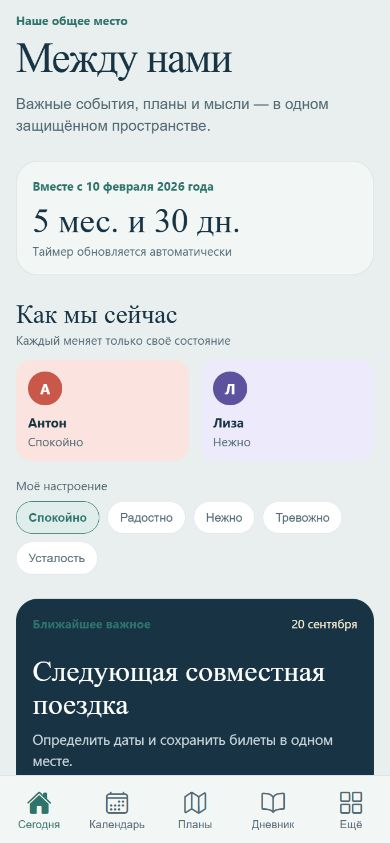
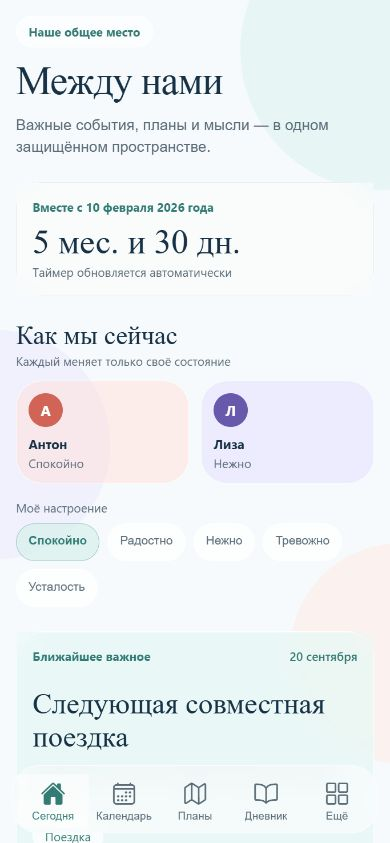
feat: redesign mobile UI with light glass materials

diff --git a/src/app/(tabs)/more.tsx b/src/app/(tabs)/more.tsx
@@ -3,7 +3,7 @@ import { Pressable, StyleSheet, Text, View } from "react-native";
 import { PageHeader } from "@/components/PageHeader";
 import { Screen } from "@/components/Screen";
 import { Surface } from "@/components/Surface";
-import { colors, radius, spacing } from "@/theme/tokens";
+import { colors, controlShadow, radius, spacing } from "@/theme/tokens";
 
 const sections = [
   { icon: "time-outline", title: "Наша история", subtitle: "Памятные события" },
@@ -17,15 +17,23 @@ const sections = [
 export default function MoreScreen() {
   return (
     <Screen header={<PageHeader kicker="Все разделы" title="Ещё" subtitle="Дополнительные разделы общей платформы и будущие возможности." />}>
-      <View style={styles.grid}>
-        {sections.map((section) => (
-          <Pressable key={section.title} accessibilityRole="button" style={({ pressed }) => [styles.item, pressed && styles.pressed]}>
-            <Ionicons color={colors.sea} name={section.icon} size={22} />
-            <Text style={styles.title}>{section.title}</Text>
-            <Text style={styles.subtitle}>{section.subtitle}</Text>
-          </Pressable>
+      <Surface style={styles.group}>
+        {sections.map((section, index) => (
+          <View key={section.title}>
+            <Pressable accessibilityRole="button" style={({ pressed }) => [styles.item, pressed && styles.pressed]}>
+              <View style={[styles.iconWell, index % 3 === 1 && styles.violetWell, index % 3 === 2 && styles.coralWell]}>
+                <Ionicons color={index % 3 === 1 ? colors.violet : index % 3 === 2 ? colors.coral : colors.sea} name={section.icon} size={21} />
+              </View>
+              <View style={styles.copy}>
+                <Text style={styles.title}>{section.title}</Text>
+                <Text style={styles.subtitle}>{section.subtitle}</Text>
+              </View>
+              <Ionicons color={colors.muted} name="chevron-forward" size={18} />
+            </Pressable>
+            {index < sections.length - 1 ? <View style={styles.separator} /> : null}
+          </View>
         ))}
-      </View>
+      </Surface>
       <Surface style={styles.foundation}>
         <Text style={styles.foundationTitle}>Мобильная основа готова</Text>
         <Text style={styles.foundationText}>Следующий этап — авторизация пары, синхронизация с новым API и полноценные формы добавления данных.</Text>
@@ -35,11 +43,16 @@ export default function MoreScreen() {
 }
 
 const styles = StyleSheet.create({
-  grid: { flexDirection: "row", flexWrap: "wrap", gap: spacing.md },
-  item: { backgroundColor: colors.surface, borderColor: colors.line, borderRadius: radius.lg, borderWidth: StyleSheet.hairlineWidth, minHeight: 132, padding: spacing.lg, width: "48%" },
+  group: { backgroundColor: "rgba(255,255,255,0.68)", paddingHorizontal: spacing.md, paddingVertical: spacing.xs },
+  item: { alignItems: "center", flexDirection: "row", minHeight: 72, paddingHorizontal: spacing.xs, paddingVertical: spacing.sm },
   pressed: { opacity: 0.72, transform: [{ scale: 0.985 }] },
-  title: { color: colors.ink, fontSize: 14, fontWeight: "700", marginTop: spacing.md },
-  subtitle: { color: colors.muted, fontSize: 12, lineHeight: 17, marginTop: spacing.xs },
+  iconWell: { alignItems: "center", backgroundColor: colors.seaSoft, borderColor: colors.glassLine, borderRadius: radius.md, borderWidth: StyleSheet.hairlineWidth, height: 44, justifyContent: "center", width: 44, ...controlShadow },
+  violetWell: { backgroundColor: colors.violetSoft },
+  coralWell: { backgroundColor: colors.coralSoft },
+  copy: { flex: 1, marginHorizontal: spacing.md },
+  title: { color: colors.ink, fontSize: 15, fontWeight: "700" },
+  subtitle: { color: colors.muted, fontSize: 12, lineHeight: 17, marginTop: 2 },
+  separator: { backgroundColor: colors.line, height: StyleSheet.hairlineWidth, marginLeft: 60 },
   foundation: { backgroundColor: colors.seaSoft, marginTop: spacing.xl },
   foundationTitle: { color: colors.ink, fontSize: 16, fontWeight: "700" },
   foundationText: { color: colors.muted, fontSize: 13, lineHeight: 20, marginTop: spacing.sm },

diff --git a/src/app/(tabs)/index.tsx b/src/app/(tabs)/index.tsx
@@ -53,18 +53,18 @@ export default function HomeScreen() {
 }
 
 const styles = StyleSheet.create({
-  timer: { marginBottom: spacing.xl },
+  timer: { backgroundColor: "rgba(255,255,255,0.7)", marginBottom: spacing.xl },
   timerLabel: { color: colors.sea, fontSize: 12, fontWeight: "700" },
   timerValue: { color: colors.ink, fontFamily: typography.display, fontSize: 34, marginTop: spacing.sm },
   timerCaption: { color: colors.muted, fontSize: 12, marginTop: 2 },
-  nextPlan: { backgroundColor: colors.ink, marginBottom: spacing.lg },
+  nextPlan: { backgroundColor: "rgba(222,243,240,0.62)", borderColor: "rgba(255,255,255,0.92)", marginBottom: spacing.lg },
   sectionRow: { alignItems: "center", flexDirection: "row", justifyContent: "space-between" },
   sectionLabel: { color: colors.sea, fontSize: 12, fontWeight: "700" },
-  date: { color: colors.sunSoft, fontSize: 12 },
-  cardTitle: { color: colors.white, fontFamily: typography.display, fontSize: 29, lineHeight: 33, marginTop: spacing.xl },
+  date: { color: colors.sea, fontSize: 12, fontWeight: "600" },
+  cardTitle: { color: colors.ink, fontFamily: typography.display, fontSize: 29, lineHeight: 33, marginTop: spacing.xl },
   cardBody: { color: colors.muted, fontSize: 14, lineHeight: 21, marginBottom: spacing.lg, marginTop: spacing.sm },
-  nextPlanBody: { color: "#CBD7DA", fontSize: 14, lineHeight: 21, marginBottom: spacing.lg, marginTop: spacing.sm },
-  tag: { alignSelf: "flex-start", backgroundColor: colors.sunSoft, borderRadius: radius.pill, color: colors.sun, fontSize: 12, overflow: "hidden", paddingHorizontal: spacing.md, paddingVertical: spacing.sm },
-  message: { marginBottom: spacing.lg },
+  nextPlanBody: { color: colors.muted, fontSize: 14, lineHeight: 21, marginBottom: spacing.lg, marginTop: spacing.sm },
+  tag: { alignSelf: "flex-start", backgroundColor: "rgba(255,255,255,0.72)", borderColor: colors.glassLine, borderRadius: radius.pill, borderWidth: StyleSheet.hairlineWidth, color: colors.sea, fontSize: 12, overflow: "hidden", paddingHorizontal: spacing.md, paddingVertical: spacing.sm },
+  message: { backgroundColor: "rgba(255,255,255,0.68)", marginBottom: spacing.lg },
   messageTitle: { color: colors.ink, fontFamily: typography.display, fontSize: 27, lineHeight: 31, marginTop: spacing.lg },
 });

diff --git a/src/components/MoodPanel.tsx b/src/components/MoodPanel.tsx
@@ -1,7 +1,7 @@
 import { Pressable, StyleSheet, Text, View } from "react-native";
 import { memberLabels, moodLabels } from "@/domain/labels";
 import type { MemberId, MemberMood, Mood } from "@/domain/models";
-import { colors, radius, spacing, typography } from "@/theme/tokens";
+import { colors, controlShadow, radius, spacing, typography } from "@/theme/tokens";
 
 interface MoodPanelProps {
   currentMemberId: MemberId;
@@ -48,7 +48,7 @@ const styles = StyleSheet.create({
   title: { color: colors.ink, fontFamily: typography.display, fontSize: 26 },
   caption: { color: colors.muted, fontSize: 12, marginTop: 2 },
   people: { flexDirection: "row", gap: spacing.md },
-  person: { backgroundColor: colors.coralSoft, borderRadius: radius.md, flex: 1, padding: spacing.md },
+  person: { backgroundColor: colors.coralSoft, borderColor: "rgba(255,255,255,0.82)", borderRadius: radius.lg, borderWidth: StyleSheet.hairlineWidth, flex: 1, padding: spacing.md, ...controlShadow },
   lisaPerson: { backgroundColor: colors.violetSoft },
   avatar: { alignItems: "center", backgroundColor: colors.coral, borderRadius: radius.pill, height: 34, justifyContent: "center", width: 34 },
   lisaAvatar: { backgroundColor: colors.violet },
@@ -57,8 +57,8 @@ const styles = StyleSheet.create({
   value: { color: colors.muted, fontSize: 12, marginTop: 2 },
   selectLabel: { color: colors.muted, fontSize: 12, marginBottom: spacing.sm, marginTop: spacing.lg },
   options: { flexDirection: "row", flexWrap: "wrap", gap: spacing.sm },
-  option: { backgroundColor: colors.surfaceStrong, borderColor: colors.line, borderRadius: radius.pill, borderWidth: StyleSheet.hairlineWidth, paddingHorizontal: spacing.md, paddingVertical: 9 },
-  activeOption: { backgroundColor: colors.seaSoft, borderColor: colors.sea },
+  option: { backgroundColor: "rgba(255,255,255,0.72)", borderColor: colors.glassLine, borderRadius: radius.pill, borderWidth: StyleSheet.hairlineWidth, minHeight: 38, paddingHorizontal: spacing.md, paddingVertical: 10, ...controlShadow },
+  activeOption: { backgroundColor: colors.seaSoft, borderColor: "rgba(51,123,116,0.34)" },
   optionText: { color: colors.muted, fontFamily: typography.body, fontSize: 12 },
   activeOptionText: { color: colors.sea, fontWeight: "700" },
 });

diff --git a/src/app/(tabs)/calendar.tsx b/src/app/(tabs)/calendar.tsx
@@ -6,7 +6,7 @@ import { PageHeader } from "@/components/PageHeader";
 import { Screen } from "@/components/Screen";
 import { Surface } from "@/components/Surface";
 import { useAppData } from "@/state/AppDataContext";
-import { colors, radius, spacing, typography } from "@/theme/tokens";
+import { colors, controlShadow, radius, spacing, typography } from "@/theme/tokens";
 
 const weekdays = ["Пн", "Вт", "Ср", "Чт", "Пт", "Сб", "Вс"];
 
@@ -65,15 +65,15 @@ export default function CalendarScreen() {
 }
 
 const styles = StyleSheet.create({
-  calendar: { padding: spacing.md },
+  calendar: { backgroundColor: "rgba(255,255,255,0.66)", padding: spacing.md },
   monthRow: { alignItems: "center", flexDirection: "row", justifyContent: "space-between", marginBottom: spacing.lg },
-  arrow: { alignItems: "center", backgroundColor: colors.surfaceStrong, borderRadius: radius.md, height: 42, justifyContent: "center", width: 42 },
+  arrow: { alignItems: "center", backgroundColor: "rgba(255,255,255,0.76)", borderColor: colors.glassLine, borderRadius: radius.md, borderWidth: StyleSheet.hairlineWidth, height: 44, justifyContent: "center", width: 44, ...controlShadow },
   month: { color: colors.ink, fontFamily: typography.display, fontSize: 24, textTransform: "capitalize" },
   weekRow: { flexDirection: "row" },
   weekday: { color: colors.muted, flex: 1, fontSize: 10, fontWeight: "600", paddingVertical: spacing.sm, textAlign: "center" },
   grid: { flexDirection: "row", flexWrap: "wrap" },
   day: { alignItems: "center", aspectRatio: 1, justifyContent: "center", padding: 2, width: "14.2857%" },
-  activeDay: { backgroundColor: colors.ink, borderRadius: radius.md },
+  activeDay: { backgroundColor: colors.sea, borderColor: "rgba(255,255,255,0.8)", borderRadius: radius.md, borderWidth: StyleSheet.hairlineWidth, ...controlShadow },
   dayText: { color: colors.ink, fontSize: 13 },
   outsideText: { color: "#AAB8BC" },
   activeDayText: { color: colors.white, fontWeight: "700" },

diff --git a/src/app/(tabs)/_layout.tsx b/src/app/(tabs)/_layout.tsx
@@ -1,7 +1,8 @@
 import { Ionicons } from "@expo/vector-icons";
+import { BlurView } from "expo-blur";
 import { Tabs } from "expo-router";
-import { Platform } from "react-native";
-import { colors, typography } from "@/theme/tokens";
+import { Platform, StyleSheet } from "react-native";
+import { colors, radius, shadow, typography } from "@/theme/tokens";
 
 const icons = {
   index: ["home-outline", "home"],
@@ -18,12 +19,25 @@ export default function TabsLayout() {
         headerShown: false,
         tabBarActiveTintColor: colors.sea,
         tabBarInactiveTintColor: colors.muted,
+        tabBarActiveBackgroundColor: "rgba(255,255,255,0.58)",
+        tabBarBackground: () => <BlurView blurMethod="dimezisBlurViewSdk31Plus" intensity={72} tint="systemUltraThinMaterialLight" style={StyleSheet.absoluteFill} />,
+        tabBarItemStyle: { borderRadius: radius.md, marginVertical: 5, outlineColor: "transparent", outlineWidth: 0 },
         tabBarLabelStyle: { fontFamily: typography.body, fontSize: 11, fontWeight: "500", marginTop: 2 },
         tabBarStyle: {
-          backgroundColor: colors.surface,
-          borderTopColor: colors.line,
-          height: Platform.OS === "ios" ? 86 : 68,
-          paddingTop: 8,
+          backgroundColor: "rgba(255,255,255,0.5)",
+          borderColor: colors.glassLine,
+          borderRadius: 27,
+          borderTopWidth: StyleSheet.hairlineWidth,
+          borderWidth: StyleSheet.hairlineWidth,
+          bottom: Platform.OS === "ios" ? 8 : 10,
+          height: Platform.OS === "ios" ? 78 : 68,
+          left: 12,
+          overflow: "hidden",
+          paddingHorizontal: 5,
+          paddingTop: 4,
+          position: "absolute",
+          right: 12,
+          ...shadow,
         },
         tabBarIcon: ({ color, focused, size }) => {
           const pair = icons[route.name as keyof typeof icons] ?? icons.more;

diff --git a/src/theme/tokens.ts b/src/theme/tokens.ts
@@ -1,20 +1,22 @@
 import { Platform } from "react-native";
 
 export const colors = {
-  background: "#E8EFEE",
-  surface: "#F2F6F5",
+  background: "#F7FAFC",
+  surface: "rgba(255, 255, 255, 0.62)",
   surfaceStrong: "#FFFFFF",
-  ink: "#173344",
-  muted: "#526974",
-  line: "rgba(81, 108, 115, 0.16)",
-  sea: "#2F746B",
-  seaSoft: "#DFEEEA",
-  coral: "#C9584A",
-  coralSoft: "#FBE4DF",
-  violet: "#5D529E",
-  violetSoft: "#ECEAFB",
-  sun: "#A87510",
-  sunSoft: "#FAEFD3",
+  surfaceSoft: "rgba(244, 249, 250, 0.72)",
+  ink: "#173246",
+  muted: "#5B6D79",
+  line: "rgba(92, 116, 128, 0.14)",
+  glassLine: "rgba(255, 255, 255, 0.92)",
+  sea: "#337B74",
+  seaSoft: "rgba(215, 240, 235, 0.68)",
+  coral: "#D16457",
+  coralSoft: "rgba(255, 225, 220, 0.58)",
+  violet: "#6859AC",
+  violetSoft: "rgba(231, 227, 255, 0.62)",
+  sun: "#9A7119",
+  sunSoft: "rgba(252, 239, 203, 0.72)",
   danger: "#BD564E",
   white: "#FFFFFF",
 } as const;
@@ -29,9 +31,9 @@ export const spacing = {
 } as const;
 
 export const radius = {
-  sm: 10,
-  md: 16,
-  lg: 22,
+  sm: 12,
+  md: 18,
+  lg: 26,
   pill: 999,
 } as const;
 
@@ -42,11 +44,22 @@ export const typography = {
 
 export const shadow = Platform.select({
   ios: {
-    shadowColor: "#263F49",
-    shadowOpacity: 0.1,
-    shadowRadius: 16,
-    shadowOffset: { width: 0, height: 7 },
+    shadowColor: "#6B8290",
+    shadowOpacity: 0.13,
+    shadowRadius: 22,
+    shadowOffset: { width: 0, height: 10 },
   },
-  android: { elevation: 3 },
+  android: { elevation: 2 },
+  default: {},
+});
+
+export const controlShadow = Platform.select({
+  ios: {
+    shadowColor: "#66808B",
+    shadowOpacity: 0.12,
+    shadowRadius: 10,
+    shadowOffset: { width: 0, height: 5 },
+  },
+  android: { elevation: 2 },
   default: {},
 });

diff --git a/src/components/AppButton.tsx b/src/components/AppButton.tsx
@@ -1,5 +1,5 @@
 import { Pressable, StyleSheet, Text, type PressableProps, type StyleProp, type ViewStyle } from "react-native";
-import { colors, radius, spacing, typography } from "@/theme/tokens";
+import { colors, controlShadow, radius, spacing, typography } from "@/theme/tokens";
 
 interface AppButtonProps extends Omit<PressableProps, "style"> {
   label: string;
@@ -20,11 +20,11 @@ export function AppButton({ label, variant = "primary", style, ...props }: AppBu
 }
 
 const styles = StyleSheet.create({
-  base: { alignItems: "center", borderRadius: radius.md, justifyContent: "center", minHeight: 48, paddingHorizontal: spacing.lg },
-  primary: { backgroundColor: colors.ink },
-  secondary: { backgroundColor: colors.surfaceStrong, borderColor: colors.line, borderWidth: StyleSheet.hairlineWidth },
+  base: { alignItems: "center", borderRadius: radius.md, borderWidth: StyleSheet.hairlineWidth, justifyContent: "center", minHeight: 50, paddingHorizontal: spacing.lg, ...controlShadow },
+  primary: { backgroundColor: colors.sea, borderColor: "rgba(255,255,255,0.72)" },
+  secondary: { backgroundColor: "rgba(255,255,255,0.76)", borderColor: colors.glassLine },
   danger: { backgroundColor: colors.coralSoft },
-  pressed: { opacity: 0.78, transform: [{ scale: 0.985 }] },
+  pressed: { opacity: 0.86, transform: [{ scale: 0.98 }] },
   label: { color: colors.white, fontFamily: typography.body, fontSize: 15, fontWeight: "600" },
   darkLabel: { color: colors.ink },
   dangerLabel: { color: colors.danger },

diff --git a/src/components/Screen.tsx b/src/components/Screen.tsx
@@ -12,6 +12,11 @@ export function Screen({ children, header, scroll = true }: ScreenProps) {
   const content = <View style={styles.content}>{header}{children}</View>;
   return (
     <SafeAreaView style={styles.safeArea} edges={["top"]}>
+      <View pointerEvents="none" style={styles.ambient}>
+        <View style={[styles.orb, styles.orbSea]} />
+        <View style={[styles.orb, styles.orbViolet]} />
+        <View style={[styles.orb, styles.orbCoral]} />
+      </View>
       {scroll ? <ScrollView contentContainerStyle={styles.scrollContent} showsVerticalScrollIndicator={false}>{content}</ScrollView> : content}
     </SafeAreaView>
   );
@@ -19,6 +24,11 @@ export function Screen({ children, header, scroll = true }: ScreenProps) {
 
 const styles = StyleSheet.create({
   safeArea: { flex: 1, backgroundColor: colors.background },
+  ambient: { bottom: 0, left: 0, overflow: "hidden", position: "absolute", right: 0, top: 0 },
+  orb: { borderRadius: 999, opacity: 0.52, position: "absolute" },
+  orbSea: { backgroundColor: "#D9F2EE", height: 280, right: -130, top: -90, width: 280 },
+  orbViolet: { backgroundColor: "#ECE8FF", height: 230, left: -120, top: 330, width: 230 },
+  orbCoral: { backgroundColor: "#FFE8E3", bottom: 80, height: 220, right: -120, width: 220 },
   scrollContent: { flexGrow: 1 },
   content: { flex: 1, paddingHorizontal: spacing.lg, paddingTop: spacing.md, paddingBottom: 120 },
 });

diff --git a/src/app/(tabs)/plans.tsx b/src/app/(tabs)/plans.tsx
@@ -42,11 +42,11 @@ const styles = StyleSheet.create({
   heading: { alignItems: "center", flexDirection: "row", justifyContent: "space-between" },
   headingTitle: { color: colors.ink, fontFamily: typography.display, fontSize: 27 },
   count: { backgroundColor: colors.seaSoft, borderRadius: radius.pill, color: colors.sea, minWidth: 30, overflow: "hidden", paddingHorizontal: spacing.sm, paddingVertical: spacing.xs, textAlign: "center" },
-  card: { marginBottom: spacing.xs },
+  card: { backgroundColor: "rgba(255,255,255,0.68)", marginBottom: spacing.xs },
   cardTop: { alignItems: "center", flexDirection: "row", justifyContent: "space-between" },
   kind: { color: colors.violet, fontSize: 11, fontWeight: "700" },
   date: { color: colors.muted, fontSize: 11 },
   title: { color: colors.ink, fontSize: 17, fontWeight: "700", marginTop: spacing.md },
   description: { color: colors.muted, fontSize: 14, lineHeight: 20, marginTop: spacing.sm },
-  empty: { backgroundColor: colors.surface, borderRadius: radius.md, color: colors.muted, overflow: "hidden", padding: spacing.lg, textAlign: "center" },
+  empty: { backgroundColor: "rgba(255,255,255,0.46)", borderColor: colors.glassLine, borderRadius: radius.md, borderWidth: StyleSheet.hairlineWidth, color: colors.muted, overflow: "hidden", padding: spacing.lg, textAlign: "center" },
 });

diff --git a/src/components/Surface.tsx b/src/components/Surface.tsx
@@ -1,4 +1,5 @@
 import type { PropsWithChildren } from "react";
+import { BlurView } from "expo-blur";
 import { StyleSheet, View, type StyleProp, type ViewStyle } from "react-native";
 import { colors, radius, shadow, spacing } from "@/theme/tokens";
 
@@ -7,7 +8,13 @@ interface SurfaceProps extends PropsWithChildren {
 }
 
 export function Surface({ children, style }: SurfaceProps) {
-  return <View style={[styles.surface, style]}>{children}</View>;
+  return (
+    <View style={[styles.surface, style]}>
+      <BlurView blurMethod="dimezisBlurViewSdk31Plus" intensity={54} tint="systemUltraThinMaterialLight" style={StyleSheet.absoluteFill} />
+      <View pointerEvents="none" style={styles.highlight} />
+      {children}
+    </View>
+  );
 }
 
 const styles = StyleSheet.create({
@@ -18,5 +25,15 @@ const styles = StyleSheet.create({
     borderWidth: StyleSheet.hairlineWidth,
     padding: spacing.lg,
     ...shadow,
+  },
+  highlight: {
+    borderColor: colors.glassLine,
+    borderRadius: radius.lg,
+    borderTopWidth: 1,
+    height: "100%",
+    left: 0,
+    position: "absolute",
+    top: 0,
+    width: "100%",
   },
 });

diff --git a/src/components/PageHeader.tsx b/src/components/PageHeader.tsx
@@ -18,8 +18,8 @@ export function PageHeader({ title, subtitle, kicker }: PageHeaderProps) {
 }
 
 const styles = StyleSheet.create({
-  container: { marginBottom: spacing.xl },
-  kicker: { color: colors.sea, fontSize: 12, fontWeight: "700", marginBottom: spacing.sm },
-  title: { color: colors.ink, fontFamily: typography.display, fontSize: 42, lineHeight: 45, letterSpacing: -1.2 },
+  container: { marginBottom: spacing.xl, paddingTop: spacing.xs },
+  kicker: { alignSelf: "flex-start", backgroundColor: "rgba(255,255,255,0.64)", borderColor: colors.glassLine, borderRadius: 999, borderWidth: StyleSheet.hairlineWidth, color: colors.sea, fontSize: 12, fontWeight: "700", marginBottom: spacing.md, overflow: "hidden", paddingHorizontal: spacing.md, paddingVertical: 7 },
+  title: { color: colors.ink, fontFamily: typography.display, fontSize: 40, lineHeight: 43, letterSpacing: -1 },
   subtitle: { color: colors.muted, fontFamily: typography.body, fontSize: 15, lineHeight: 22, marginTop: spacing.md, maxWidth: 560 },
 });

diff --git a/src/app/(tabs)/journal.tsx b/src/app/(tabs)/journal.tsx
@@ -48,7 +48,7 @@ const styles = StyleSheet.create({
   kind: { color: colors.sea, fontSize: 11, fontWeight: "700", marginTop: spacing.lg },
   title: { color: colors.ink, fontFamily: typography.display, fontSize: 28, lineHeight: 32, marginTop: spacing.sm },
   content: { color: colors.muted, fontSize: 14, lineHeight: 21, marginTop: spacing.md },
-  prompt: { backgroundColor: colors.ink, marginTop: spacing.xl },
-  promptTitle: { color: colors.sunSoft, fontSize: 12, fontWeight: "700" },
-  promptText: { color: colors.white, fontFamily: typography.display, fontSize: 27, lineHeight: 31, marginBottom: spacing.xl, marginTop: spacing.md },
+  prompt: { backgroundColor: colors.violetSoft, borderColor: colors.glassLine, marginTop: spacing.xl },
+  promptTitle: { color: colors.violet, fontSize: 12, fontWeight: "700" },
+  promptText: { color: colors.ink, fontFamily: typography.display, fontSize: 27, lineHeight: 31, marginBottom: spacing.xl, marginTop: spacing.md },
 });
